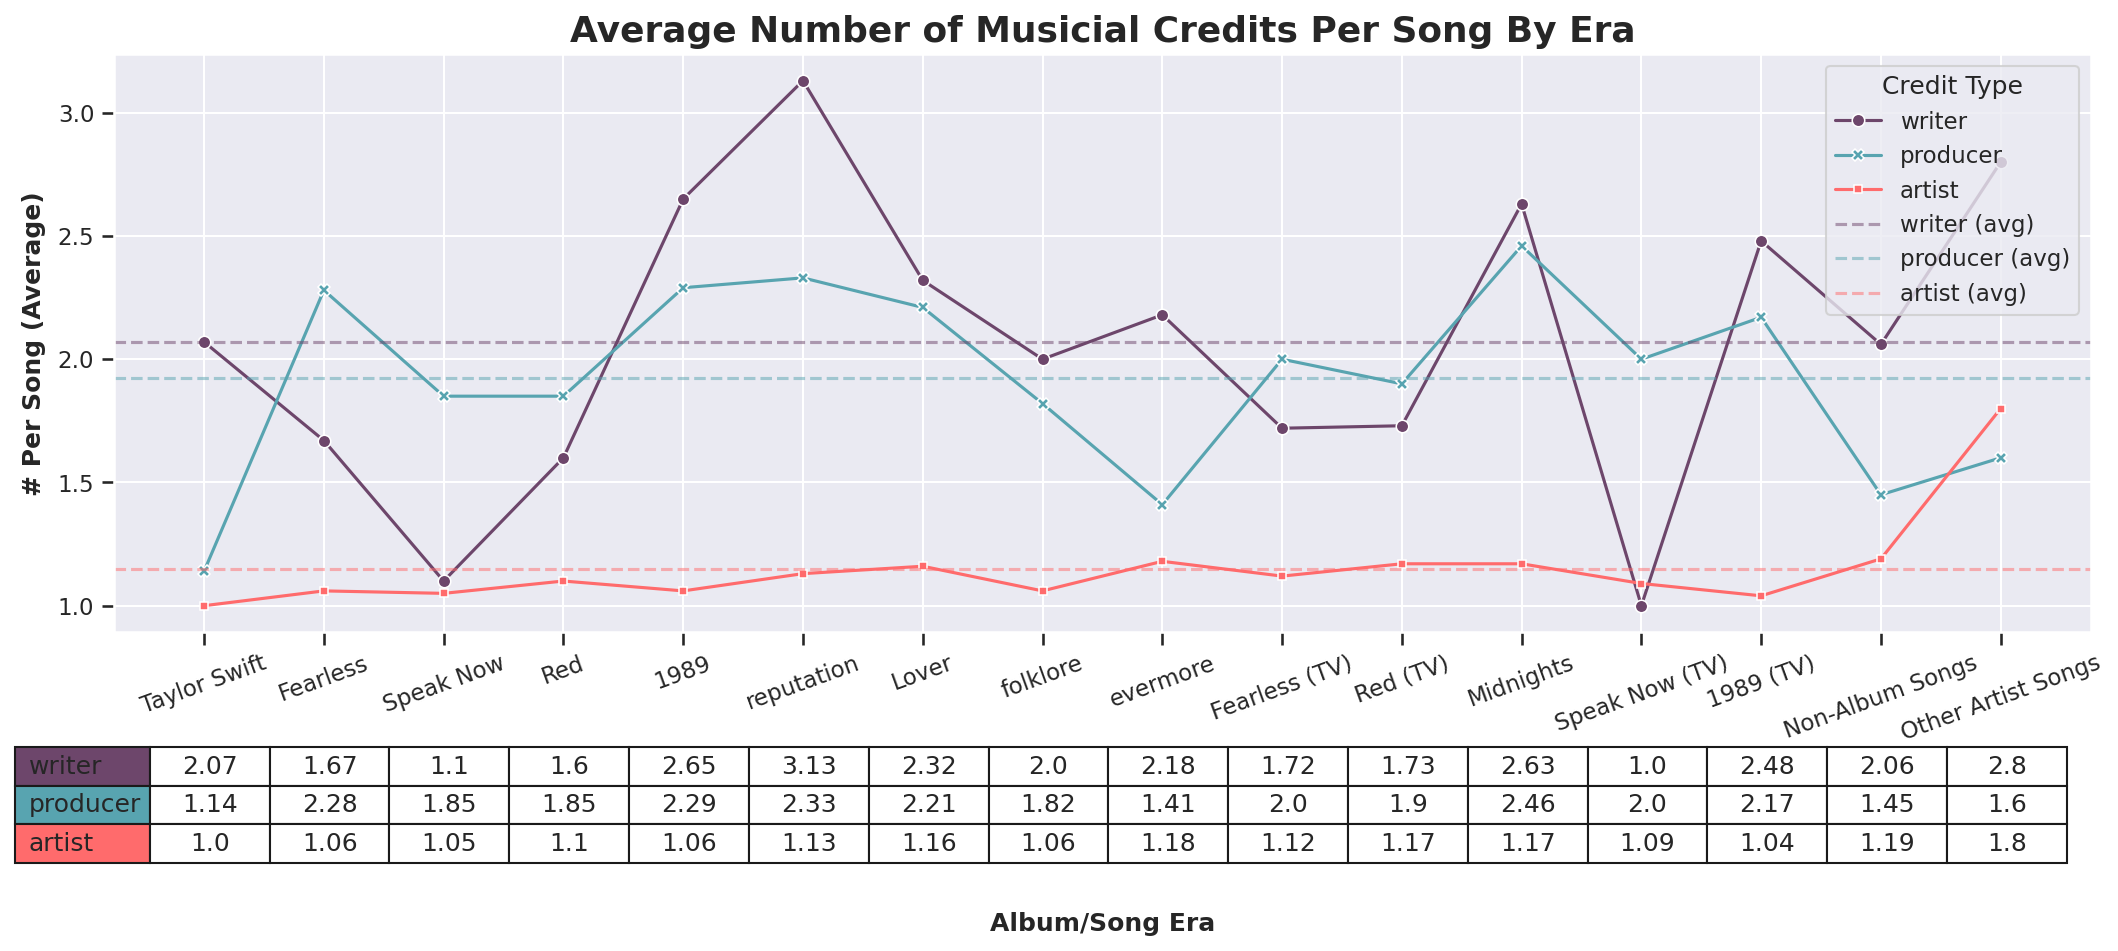
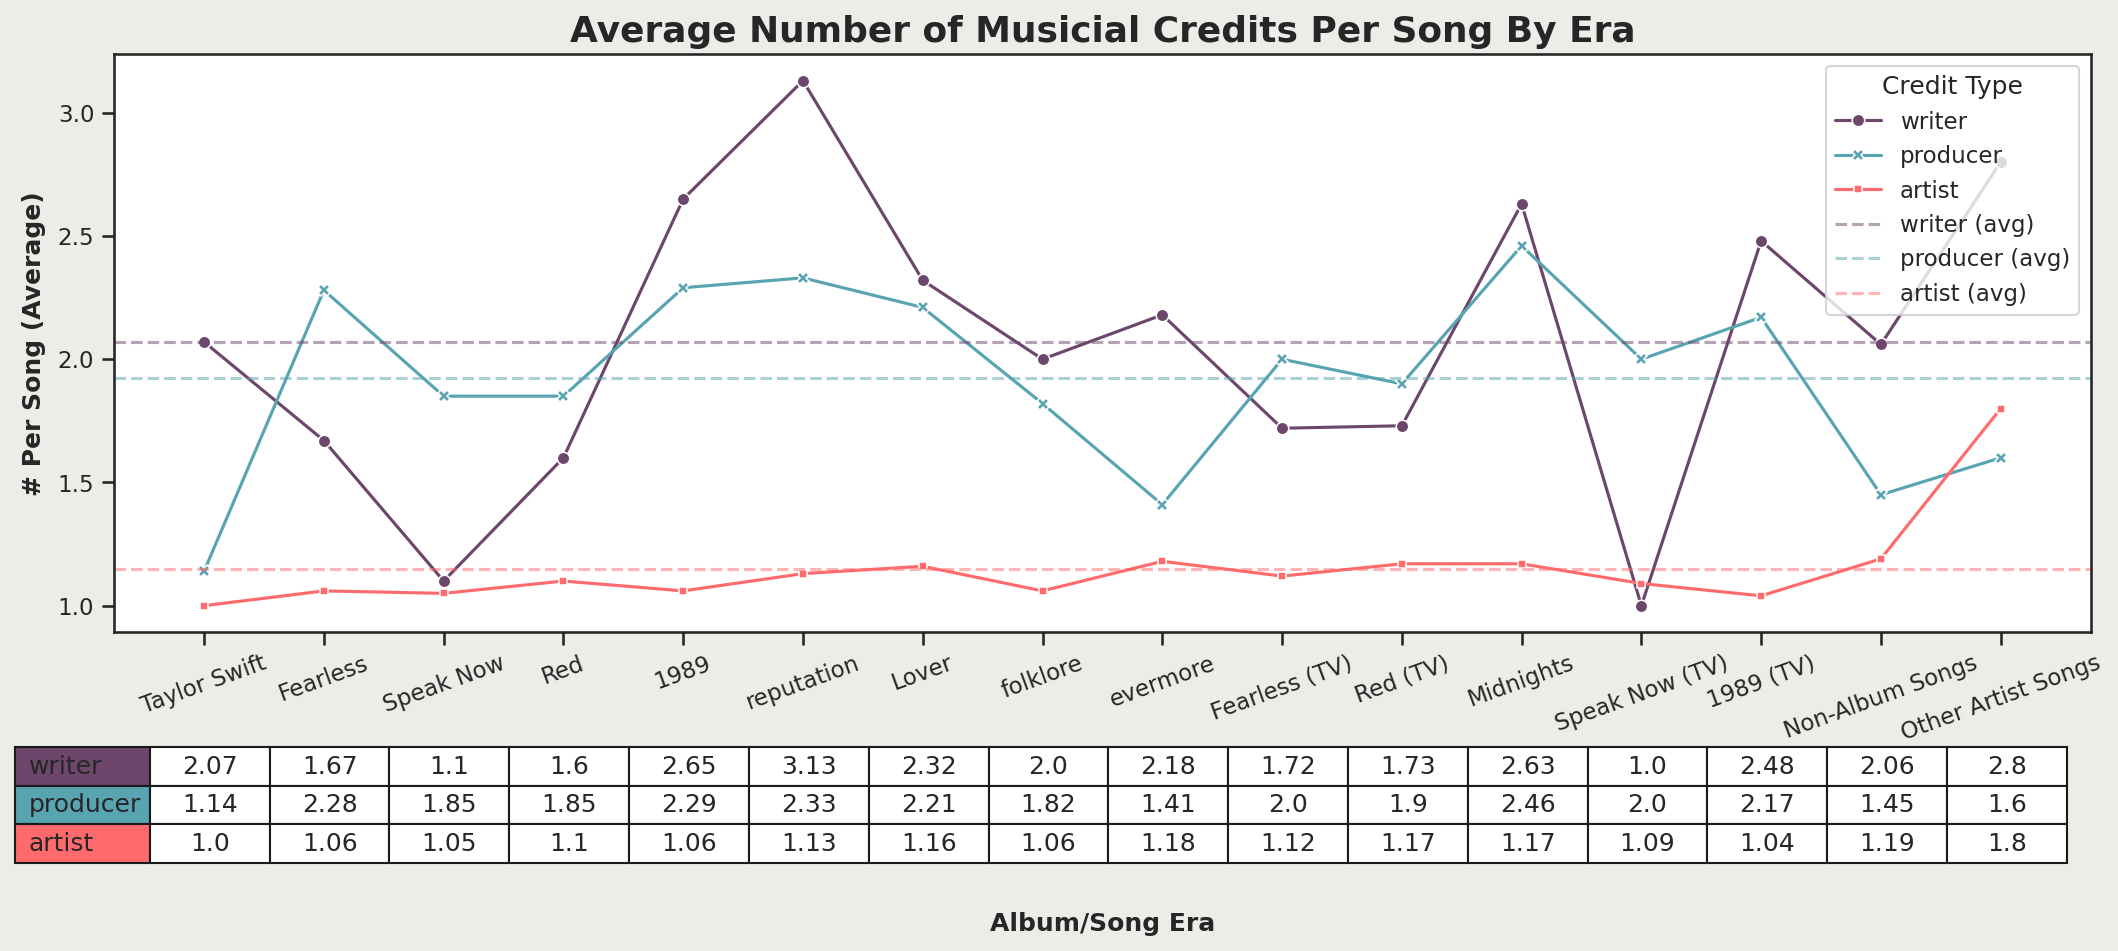
doing theme work, formatting

Changed region(s): [[0.0623, 0.6404, 0.9972, 0.6709], [0.0623, 0.0305, 0.966, 0.061]]

diff --git a/src/charts.py b/src/charts.py
@@ -29,8 +29,9 @@ def credit_chart(color_dict, custom_params, plot_type, df, x_values, y_values,
            table_df: formatted df, default None, needed for table 
     """
     palette = sns.color_palette(color_dict.values())
-    sns.set_theme(style='darkgrid', rc=custom_params)
+    sns.set_theme(style='white', rc=custom_params)
     fig, ax = plt.subplots(figsize=(17, 5))
+    fig.patch.set_facecolor('#EDECE8')
     
     bbox_tup = ()
     match plot_type:
@@ -93,8 +94,9 @@ def collab_heatmap(custom_params, df, x_values, y_values, value_field, aggfunc, 
            table_bool: bool, default False, includes values table
            table_df: formatted df, default None, needed for table 
     """
-    sns.set_theme(style='darkgrid', rc=custom_params)
+    sns.set_theme(style='white', rc=custom_params)
     fig, ax = plt.subplots(figsize=(17, 10))
+    fig.patch.set_facecolor('#EDECE8')
 
     df_pivot = df.pivot_table(index=y_values, columns=x_values, values=value_field, fill_value=0, 
                               aggfunc=aggfunc, observed=False)
@@ -140,9 +142,10 @@ def formats_pie(custom_params, df, wedge_values, wedge_labels, title, colors_lis
            table_bool: bool, default False, includes values table
            table_df: formatted df, default None, needed for table 
     """
-    sns.set_theme(rc=custom_params)
+    sns.set_theme(style='white', rc=custom_params)
     sns.set(font_scale = 0.8)
     fig, ax = plt.subplots(figsize=(17, 5))
+    fig.patch.set_facecolor('#EDECE8')
     ax.pie(df[wedge_values], autopct='%1.1f%%', colors=colors_list, 
            wedgeprops={"edgecolor":"#132a13"})
     ax.set_title(title, fontweight='bold', fontsize='large', x=0.9)
@@ -179,9 +182,10 @@ def release_hist(custom_params, df, x1_values, x2_values, x3_values, suptitle, t
            save_png: bool, default False, saves chart to png
            png_name: str, default None, image name (must include .png)
     """
+    sns.set_theme(style='white', rc=custom_params)
     fig, ax = plt.subplots(1, 3, figsize=(16, 6), sharey=True)
+    fig.patch.set_facecolor('#EDECE8')
     fig.suptitle(suptitle, fontweight='bold', fontsize='x-large')
-    sns.set_theme(style='darkgrid', rc=custom_params)
     sns.histplot(df, x=x1_values, discrete=True, color=colors_list[0], edgecolor=edgecolors_list[0], alpha = 1, ax=ax[0], shrink=.8)
     first_ticks = [one for one in range(min(df[x1_values]), max(df[x1_values])+1, 3)]
     ax[0].set_xticks(first_ticks)
@@ -233,11 +237,12 @@ def date_scatter(custom_params, df, x_values, y_values, size_values, title, x_la
            table_bool: bool, default False, includes values table
            table_df: formatted df, default None, needed for table 
     """
-    sns.set_theme(rc=custom_params)
-    sns.set(font_scale = 0.8)
     fig, ax = plt.subplots(figsize=(7, 5))
+    fig.patch.set_facecolor('#EDECE8')
     sns.scatterplot(df, x=x_values, y=y_values, size=size_values, hue=size_values, 
-                    palette='bone_r', edgecolor='#0d1b2a', marker='h', legend=False)
+                    palette='autumn_r', edgecolor='#0d1b2a', marker='h', legend=False)
+    sns.set_theme(style='white', rc=custom_params)
+    sns.set(font_scale = 0.8)
     ax.set_title(title, fontweight='bold', fontsize='large', x=0.75)
     ax.set_xlabel(x_label, fontweight='bold', fontsize='medium',
            labelpad=5.5)
@@ -252,10 +257,10 @@ def date_scatter(custom_params, df, x_values, y_values, size_values, title, x_la
             if (row == 0):
                 cell.set_text_props(fontproperties=FontProperties(weight='bold'))
             if (row % 2 == 0):
-                cell.set_color('#CEE0DF')
-                cell.set_edgecolor('#201F2C')
+                cell.set_color('#FEB23F')
+                cell.set_edgecolor('#A03704')
             else:
-                cell.set_edgecolor('#201F2C')
+                cell.set_edgecolor('#A03704')
         
     if save_png == True:
         plt.savefig('figures/charts/{}'.format(png_name), bbox_inches='tight')

diff --git a/app/Home.py b/app/Home.py
@@ -1,21 +1,39 @@
+import sys
+import os
+
+sys.path.append(os.path.abspath(os.path.join(os.path.dirname(__file__), '..', '..')))
+
 import streamlit as st
 
-st.set_page_config(page_title="Home")
+def main():
+    sidebar()
+    content()
 
-with st.sidebar:
-    with st.popover('Choose Theme'):
-        select_theme = st.selectbox('Choose Theme', ('Test1', 'Test2'), label_visibility="collapsed")
+def sidebar():
+    with st.sidebar:
+        st.image('assets/img/TheTorturedPoetsDepartment.jpg')
+        st.markdown("""
+        <h3 style="text-align: center;">Taylor Swift - Song Discography</h3>
 
-st.markdown(
+        This is an open source project that is still ongoing.
+        
+        """, unsafe_allow_html=True)
+
+
+def content():
+    st.markdown(
+        """
+        Streamlit is an open-source app framework built specifically for
+        Machine Learning and Data Science projects.
+        **👈 Select a demo from the sidebar** to see some examples
+        of what Streamlit can do!
+        ### Want to learn more?
+        - Check out [streamlit.io](https://streamlit.io)
+        - Jump into our [documentation](https://docs.streamlit.io)
+        - Ask a question in our [community
+            forums](https://discuss.streamlit.io)
     """
-    Streamlit is an open-source app framework built specifically for
-    Machine Learning and Data Science projects.
-    **👈 Select a demo from the sidebar** to see some examples
-    of what Streamlit can do!
-    ### Want to learn more?
-    - Check out [streamlit.io](https://streamlit.io)
-    - Jump into our [documentation](https://docs.streamlit.io)
-    - Ask a question in our [community
-        forums](https://discuss.streamlit.io)
-"""
-)
+    )
+
+if __name__ == '__main__':
+    main()

diff --git a/app/pages/1_Release_Overview.py b/app/pages/1_Release_Overview.py
@@ -32,8 +32,14 @@ temp_table = toolkit.sql_to_string('release_temp_table.sql')
 cursor.executescript(temp_table)
 
 def main():
+    sidebar()
     content()
 
+def sidebar():
+    with st.sidebar:
+        st.image('assets/img/TheTorturedPoetsDepartment.jpg')
+
+@st.cache_data
 def content():
     release_formats = toolkit.sql_to_string('release_formats.sql')
     

diff --git a/app/pages/2_Collaborators.py b/app/pages/2_Collaborators.py
@@ -54,8 +54,14 @@ temp_tables = toolkit.sql_to_string('collab_temp_tables.sql')
 cursor.executescript(temp_tables)
 
 def main():
+    sidebar()
     content()
 
+def sidebar():
+    with st.sidebar:
+        st.image('assets/img/TheTorturedPoetsDepartment.jpg')
+
+@st.cache_data
 def content():
     st.markdown("""
     ## Most Collaborative Eras

diff --git a/src/toolkit.py b/src/toolkit.py
@@ -13,7 +13,7 @@ def sql_to_string(sql_file_name):
 
 def install_fonts():
     """Installs all fonts in the 'font' folder."""
-    font_dir = ['/fonts']
+    font_dir = ['/assets/fonts']
     for font in fm.findSystemFonts(font_dir):
         fm.fontManager.addfont(font)
 
